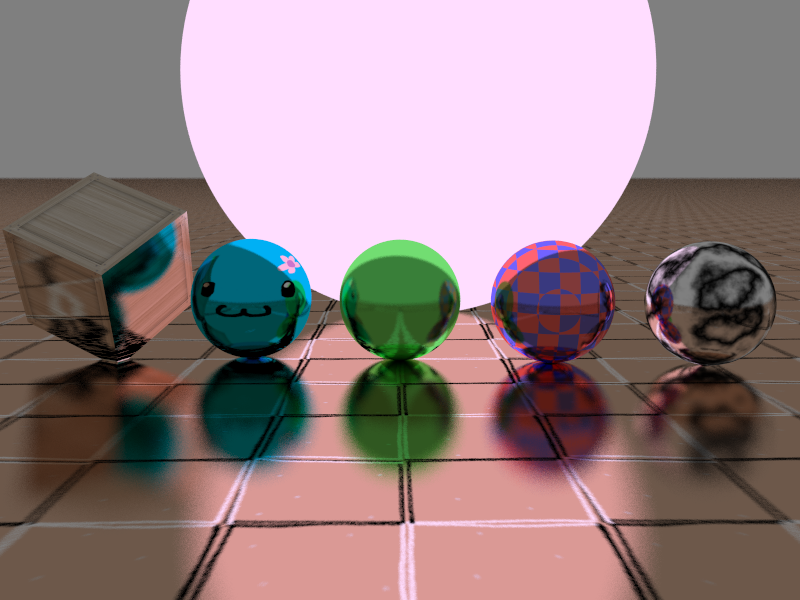
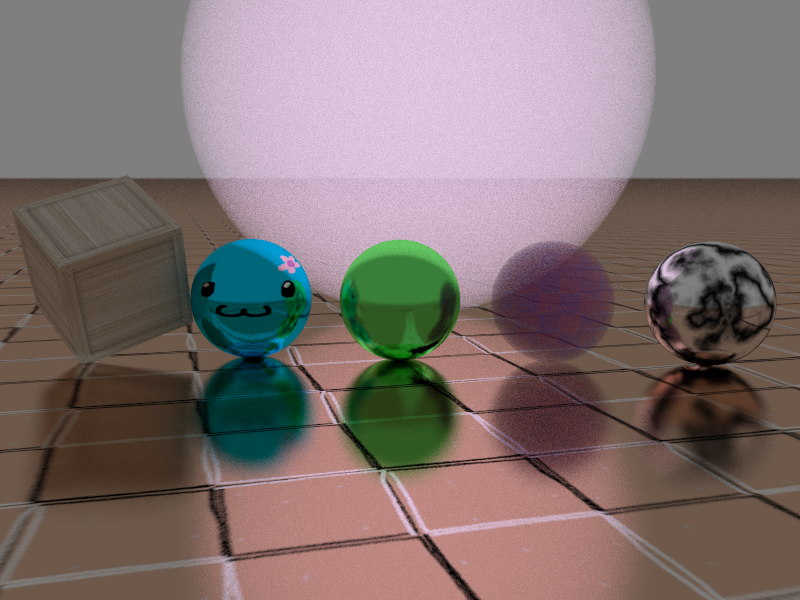
Implemented volumes for spheres and cuboids

diff --git a/src/shapes/cuboid.rs b/src/shapes/cuboid.rs
@@ -2,7 +2,8 @@ use std::rc::Rc;
 
 use serde_json::Value;
 
-use crate::materials::{dielectric, diffuse_light, lambertian, metal, Material};
+use crate::materials::{blank::Blank, dielectric, diffuse_light, lambertian, metal, Material};
+use crate::shapes::constant_medium::ConstantMedium;
 use crate::textures::TextureType;
 use crate::transform::{rotate::Rotate, translate::Translate};
 use crate::util::{
@@ -91,6 +92,8 @@ pub fn load_from_json(values: &Value) -> Vec<Box<Hitable>> {
 
     for i in 0..length {
         // Get the parameters
+        let density = json::get_f64_or_rand(&values[id][i]["density"]);
+
         let px = json::get_f64_or_rand(&values[id][i]["position"]["x"]);
         let py = json::get_f64_or_rand(&values[id][i]["position"]["y"]);
         let pz = json::get_f64_or_rand(&values[id][i]["position"]["z"]);
@@ -147,13 +150,30 @@ pub fn load_from_json(values: &Value) -> Vec<Box<Hitable>> {
             }
         };
 
-        list.push(Translate::new(
-            Rotate::new(
-                Cuboid::new(Vec3::zero(), Vec3::new(sx, sy, sz), material),
-                Vec3::new(rx, ry, rz),
-            ),
-            Vec3::new(px, py, pz),
-        ));
+        match density {
+            Some(density) => {
+                list.push(Translate::new(
+                    Rotate::new(
+                        ConstantMedium::new(
+                            density,
+                            Cuboid::new(Vec3::zero(), Vec3::new(sx, sy, sz), Blank::new()),
+                            material,
+                        ),
+                        Vec3::new(rx, ry, rz),
+                    ),
+                    Vec3::new(px, py, pz),
+                ));
+            }
+            None => {
+                list.push(Translate::new(
+                    Rotate::new(
+                        Cuboid::new(Vec3::zero(), Vec3::new(sx, sy, sz), material),
+                        Vec3::new(rx, ry, rz),
+                    ),
+                    Vec3::new(px, py, pz),
+                ));
+            }
+        }
     }
 
     list

diff --git a/src/shapes/sphere.rs b/src/shapes/sphere.rs
@@ -2,9 +2,10 @@ use std::rc::Rc;
 
 use serde_json::Value;
 
-use crate::materials::{dielectric, diffuse_light, lambertian, metal, Material};
+use crate::materials::{blank::Blank, dielectric, diffuse_light, lambertian, metal, Material};
+use crate::shapes::constant_medium::ConstantMedium;
 use crate::textures::TextureType;
-use crate::transform::{rotate::Rotate, translate::Translate};
+use crate::transform::translate::Translate;
 use crate::util::{
     hitable::{HitRecord, Hitable},
     json, math,
@@ -71,6 +72,12 @@ pub fn load_from_json(values: &Value) -> Vec<Box<Hitable>> {
 
     for i in 0..length {
         // Get the parameters
+
+        // For volumes, I can probably just read if there's a value for `density` in the
+        // JSON file, and if there is, return a volume, and if there isn't, return a sphere
+        // like usual...
+        let density = json::get_f64_or_rand(&values[id][i]["density"]);
+
         let px = json::get_f64_or_rand(&values[id][i]["position"]["x"]);
         let py = json::get_f64_or_rand(&values[id][i]["position"]["y"]);
         let pz = json::get_f64_or_rand(&values[id][i]["position"]["z"]);
@@ -115,10 +122,24 @@ pub fn load_from_json(values: &Value) -> Vec<Box<Hitable>> {
             }
         };
 
-        list.push(Translate::new(
-            Sphere::new(Vec3::zero(), radius, material),
-            Vec3::new(px, py, pz),
-        ));
+        match density {
+            Some(density) => {
+                list.push(Translate::new(
+                    ConstantMedium::new(
+                        density,
+                        Sphere::new(Vec3::zero(), radius, Blank::new()),
+                        material,
+                    ),
+                    Vec3::new(px, py, pz),
+                ));
+            }
+            None => {
+                list.push(Translate::new(
+                    Sphere::new(Vec3::zero(), radius, material),
+                    Vec3::new(px, py, pz),
+                ));
+            }
+        }
     }
 
     list

diff --git a/src/shapes/constant_medium.rs b/src/shapes/constant_medium.rs
@@ -1,0 +1,62 @@
+use std::rc::Rc;
+
+use rand::Rng;
+
+use crate::materials::Material;
+use crate::util::{
+    hitable::{HitRecord, Hitable},
+    ray::Ray,
+    vector3::Vec3,
+};
+
+pub struct ConstantMedium {
+    density: f64,
+    object: Box<Hitable>,
+    material: Rc<Material>,
+}
+
+impl ConstantMedium {
+    pub fn new(density: f64, object: Box<Hitable>, material: Rc<Material>) -> Box<ConstantMedium> {
+        Box::new(ConstantMedium {
+            density,
+            object,
+            material,
+        })
+    }
+}
+
+impl Hitable for ConstantMedium {
+    fn hit(&self, r: &Ray, t_min: f64, t_max: f64, rec: &mut HitRecord) -> bool {
+        let (mut rec1, mut rec2) = (HitRecord::new(), HitRecord::new());
+        let mut rng = rand::thread_rng();
+        if self.object.hit(r, std::f64::MIN, std::f64::MAX, &mut rec1) {
+            if self
+                .object
+                .hit(r, rec1.t + 0.0001, std::f64::MAX, &mut rec2)
+            {
+                if rec1.t < t_min {
+                    rec1.t = t_min;
+                }
+                if rec2.t > t_max {
+                    rec2.t = t_max;
+                }
+                if rec1.t >= rec2.t {
+                    return false;
+                }
+                if rec1.t < 0.0 {
+                    rec1.t = 0.0;
+                }
+                let distance_inside_boundary = (rec2.t - rec1.t) * r.direction.length();
+                let hit_distance = -(1.0 / self.density) * rng.gen::<f64>().log10();
+                if hit_distance < distance_inside_boundary {
+                    rec.t = rec1.t + hit_distance / r.direction.length();
+                    rec.p = r.point_at_parameter(rec.t);
+                    rec.normal = Vec3::new(1.0, 0.0, 0.0); // arbitrary
+                    rec.material = self.material.clone();
+                    return true;
+                }
+            }
+        }
+        false
+    }
+}

diff --git a/src/util/world.rs b/src/util/world.rs
@@ -6,10 +6,11 @@ use rand::Rng;
 use serde_json::Value;
 
 use crate::materials::{
-    dielectric::Dielectric, diffuse_light::DiffuseLight, lambertian::Lambertian, metal::Metal,
-    Material,
+    blank::Blank, dielectric::Dielectric, diffuse_light::DiffuseLight, isotropic::Isotropic,
+    lambertian::Lambertian, metal::Metal, Material,
 };
 use crate::shapes::{
+    constant_medium::{self, ConstantMedium},
     cuboid::{self, Cuboid},
     moving_sphere::{self, MovingSphere},
     plane::{self, Plane},
@@ -337,6 +338,15 @@ pub fn load_from_json(filename: String) -> HitableList {
     list.append(&mut cuboid::load_from_json(&values));
     list.append(&mut load_skybox_from_json(&values));
     println!("Done loading.");
+
+    // Volume test
+    /*
+    list.push(ConstantMedium::new(
+        0.5,
+        Sphere::new(Vec3::new(0.0, 1.0, 4.0), 1.0, Blank::new()),
+        Lambertian::new(ConstantTexture::new(Vec3::new(1.0, 0.0, 0.0))),
+    ));
+    */
 
     HitableList::new(list)
 }

diff --git a/src/materials/isotropic.rs b/src/materials/isotropic.rs
@@ -1,0 +1,29 @@
+use std::rc::Rc;
+
+use crate::materials::Material;
+use crate::textures::Texture;
+use crate::util::{hitable::HitRecord, math, ray::Ray, vector3::Vec3};
+
+pub struct Isotropic {
+    texture: Rc<Texture>,
+}
+
+impl Isotropic {
+    pub fn new(texture: Rc<Texture>) -> Rc<Isotropic> {
+        Rc::new(Isotropic { texture })
+    }
+}
+
+impl Material for Isotropic {
+    fn scatter(
+        &self,
+        r_in: &Ray,
+        rec: &mut HitRecord,
+        attenuation: &mut Vec3,
+        scattered: &mut Ray,
+    ) -> bool {
+        *scattered = Ray::new(rec.p, math::random_in_unit_sphere(), r_in.time);
+        *attenuation = self.texture.value(rec.u, rec.v, rec.p);
+        true
+    }
+}

diff --git a/src/materials/blank.rs b/src/materials/blank.rs
@@ -1,0 +1,24 @@
+use std::rc::Rc;
+
+use crate::materials::Material;
+use crate::util::{hitable::HitRecord, math, ray::Ray, vector3::Vec3};
+
+pub struct Blank {}
+
+impl Blank {
+    pub fn new() -> Rc<Blank> {
+        Rc::new(Blank {})
+    }
+}
+
+impl Material for Blank {
+    fn scatter(
+        &self,
+        _r_in: &Ray,
+        _rec: &mut HitRecord,
+        _attenuation: &mut Vec3,
+        _scattered: &mut Ray,
+    ) -> bool {
+        false
+    }
+}

diff --git a/src/main.rs b/src/main.rs
@@ -20,7 +20,7 @@ use crate::util::{
 };
 
 // Got this from here: https://www.reddit.com/r/rust/comments/a6pvjk/my_first_rust_project/ebx03gn/
-#[derive(StructOpt, Debug)]
+#[derive(StructOpt)]
 #[structopt(name = "rt1w")]
 struct Opt {
     /// Show verbose output

diff --git a/src/shapes/moving_sphere.rs b/src/shapes/moving_sphere.rs
@@ -18,7 +18,7 @@ pub struct MovingSphere {
     t1: f64,
     center0: Vec3,
     center1: Vec3,
-    material: Rc<Material>,
+    pub material: Rc<Material>,
 }
 
 impl MovingSphere {

diff --git a/src/shapes/plane.rs b/src/shapes/plane.rs
@@ -15,7 +15,7 @@ use crate::util::{
 pub struct Plane {
     position: Vec3,
     normal: Vec3,
-    material: Rc<Material>,
+    pub material: Rc<Material>,
 }
 
 impl Plane {

diff --git a/src/materials.rs b/src/materials.rs
@@ -14,7 +14,9 @@ pub trait Material {
     }
 }
 
+pub mod blank;
 pub mod dielectric;
 pub mod diffuse_light;
+pub mod isotropic;
 pub mod lambertian;
 pub mod metal;

diff --git a/src/shapes.rs b/src/shapes.rs
@@ -1,3 +1,4 @@
+pub mod constant_medium;
 pub mod cuboid; // Can't name it box :(
 pub mod moving_sphere;
 pub mod plane;
